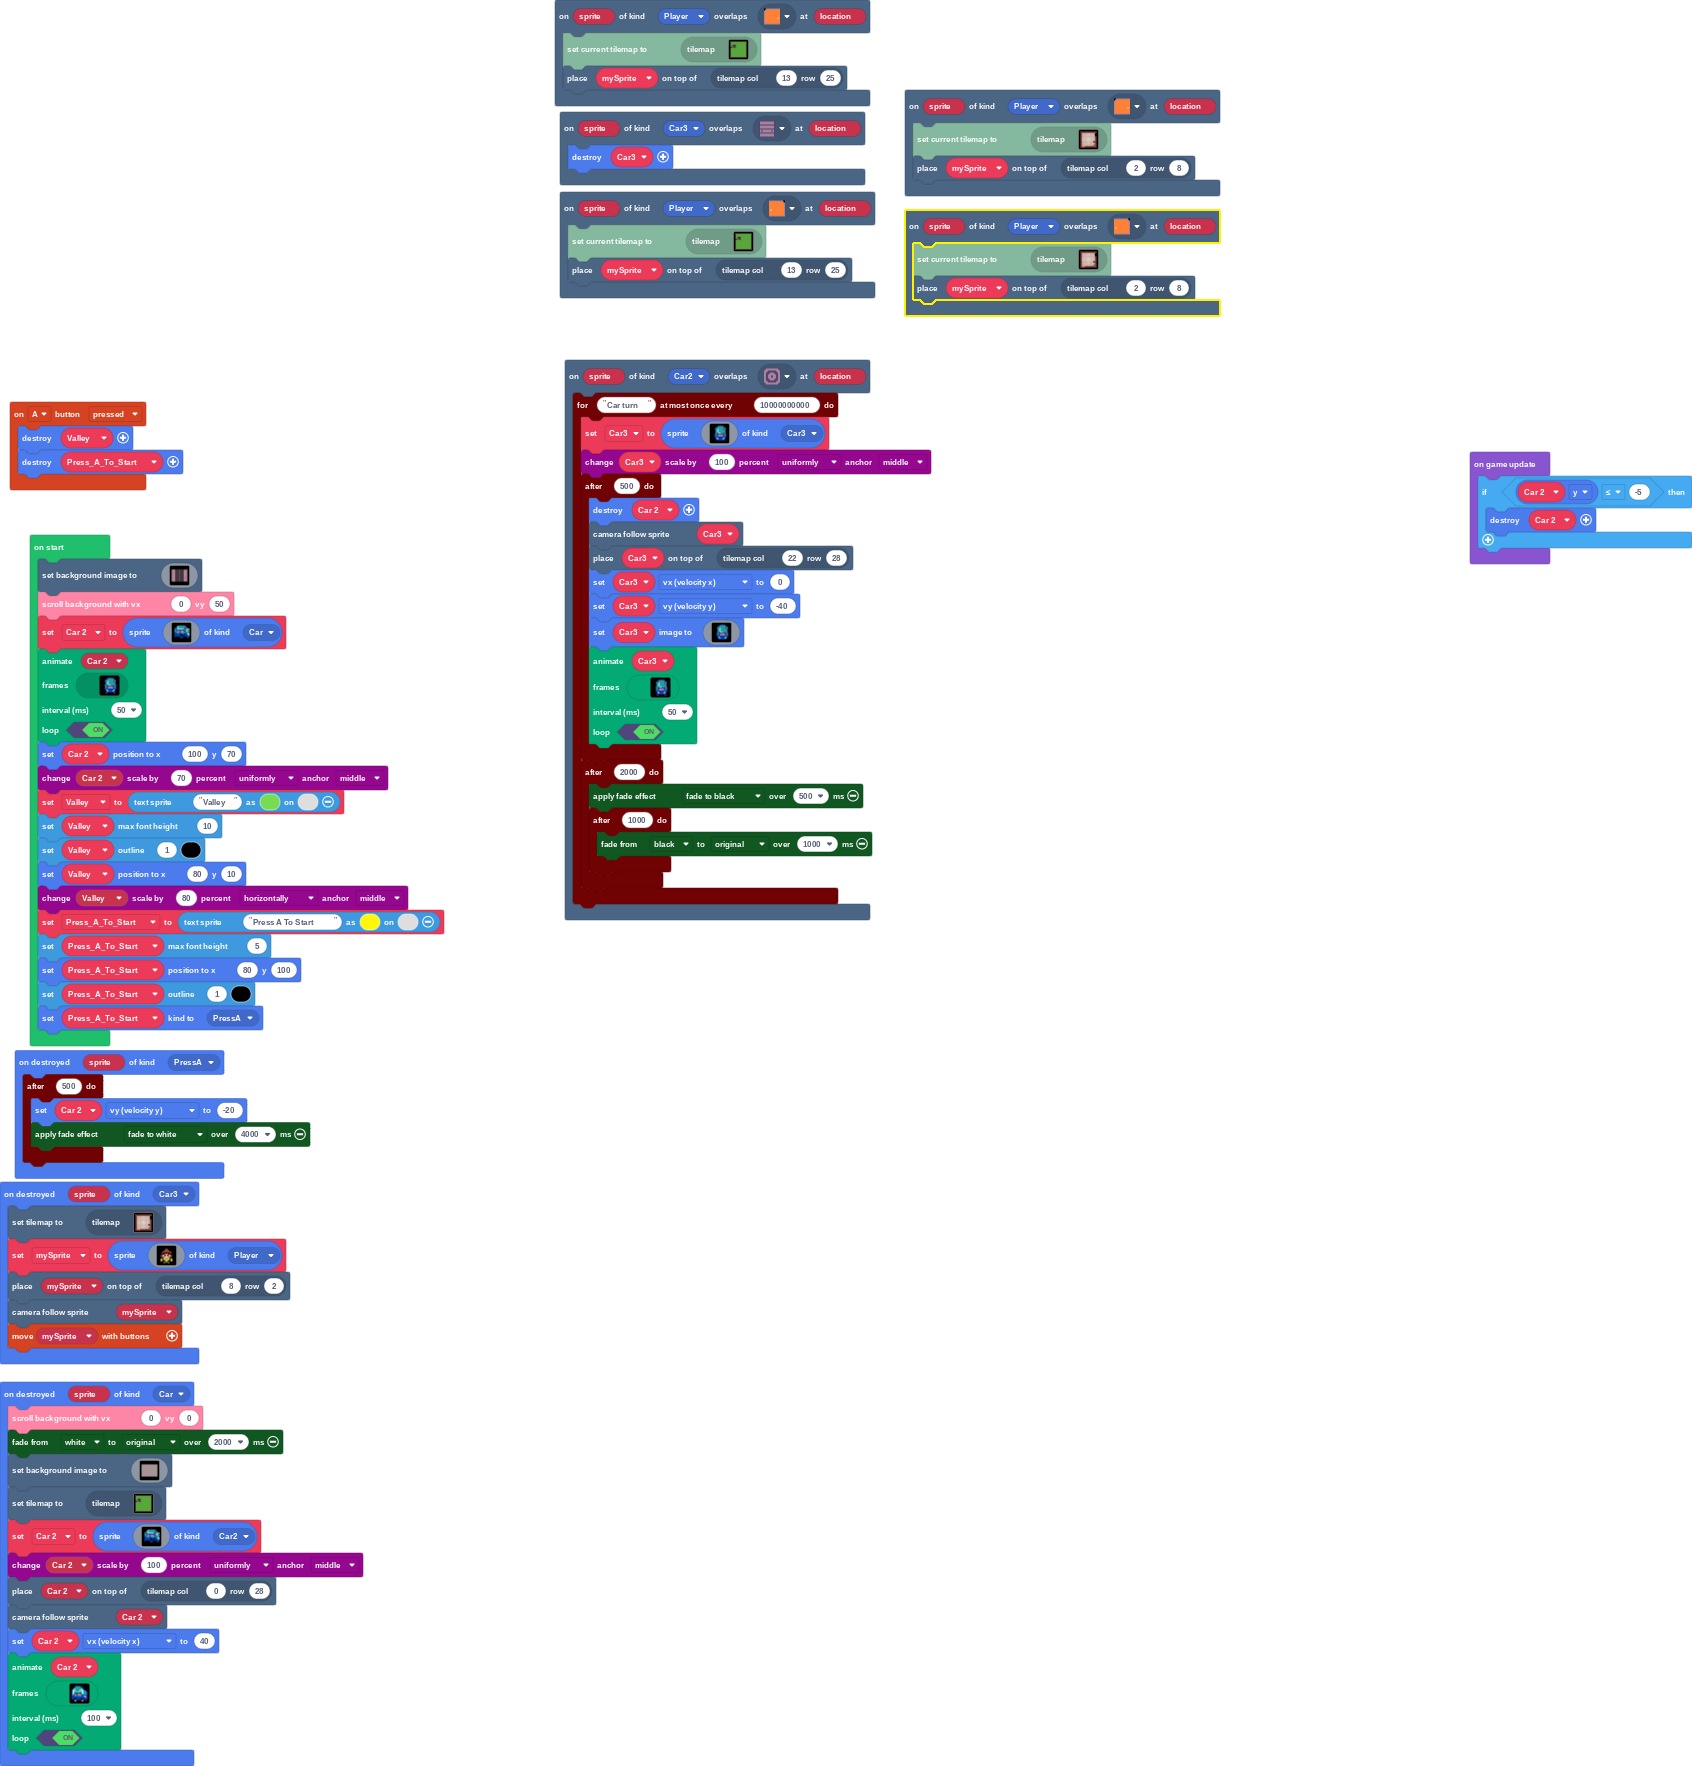
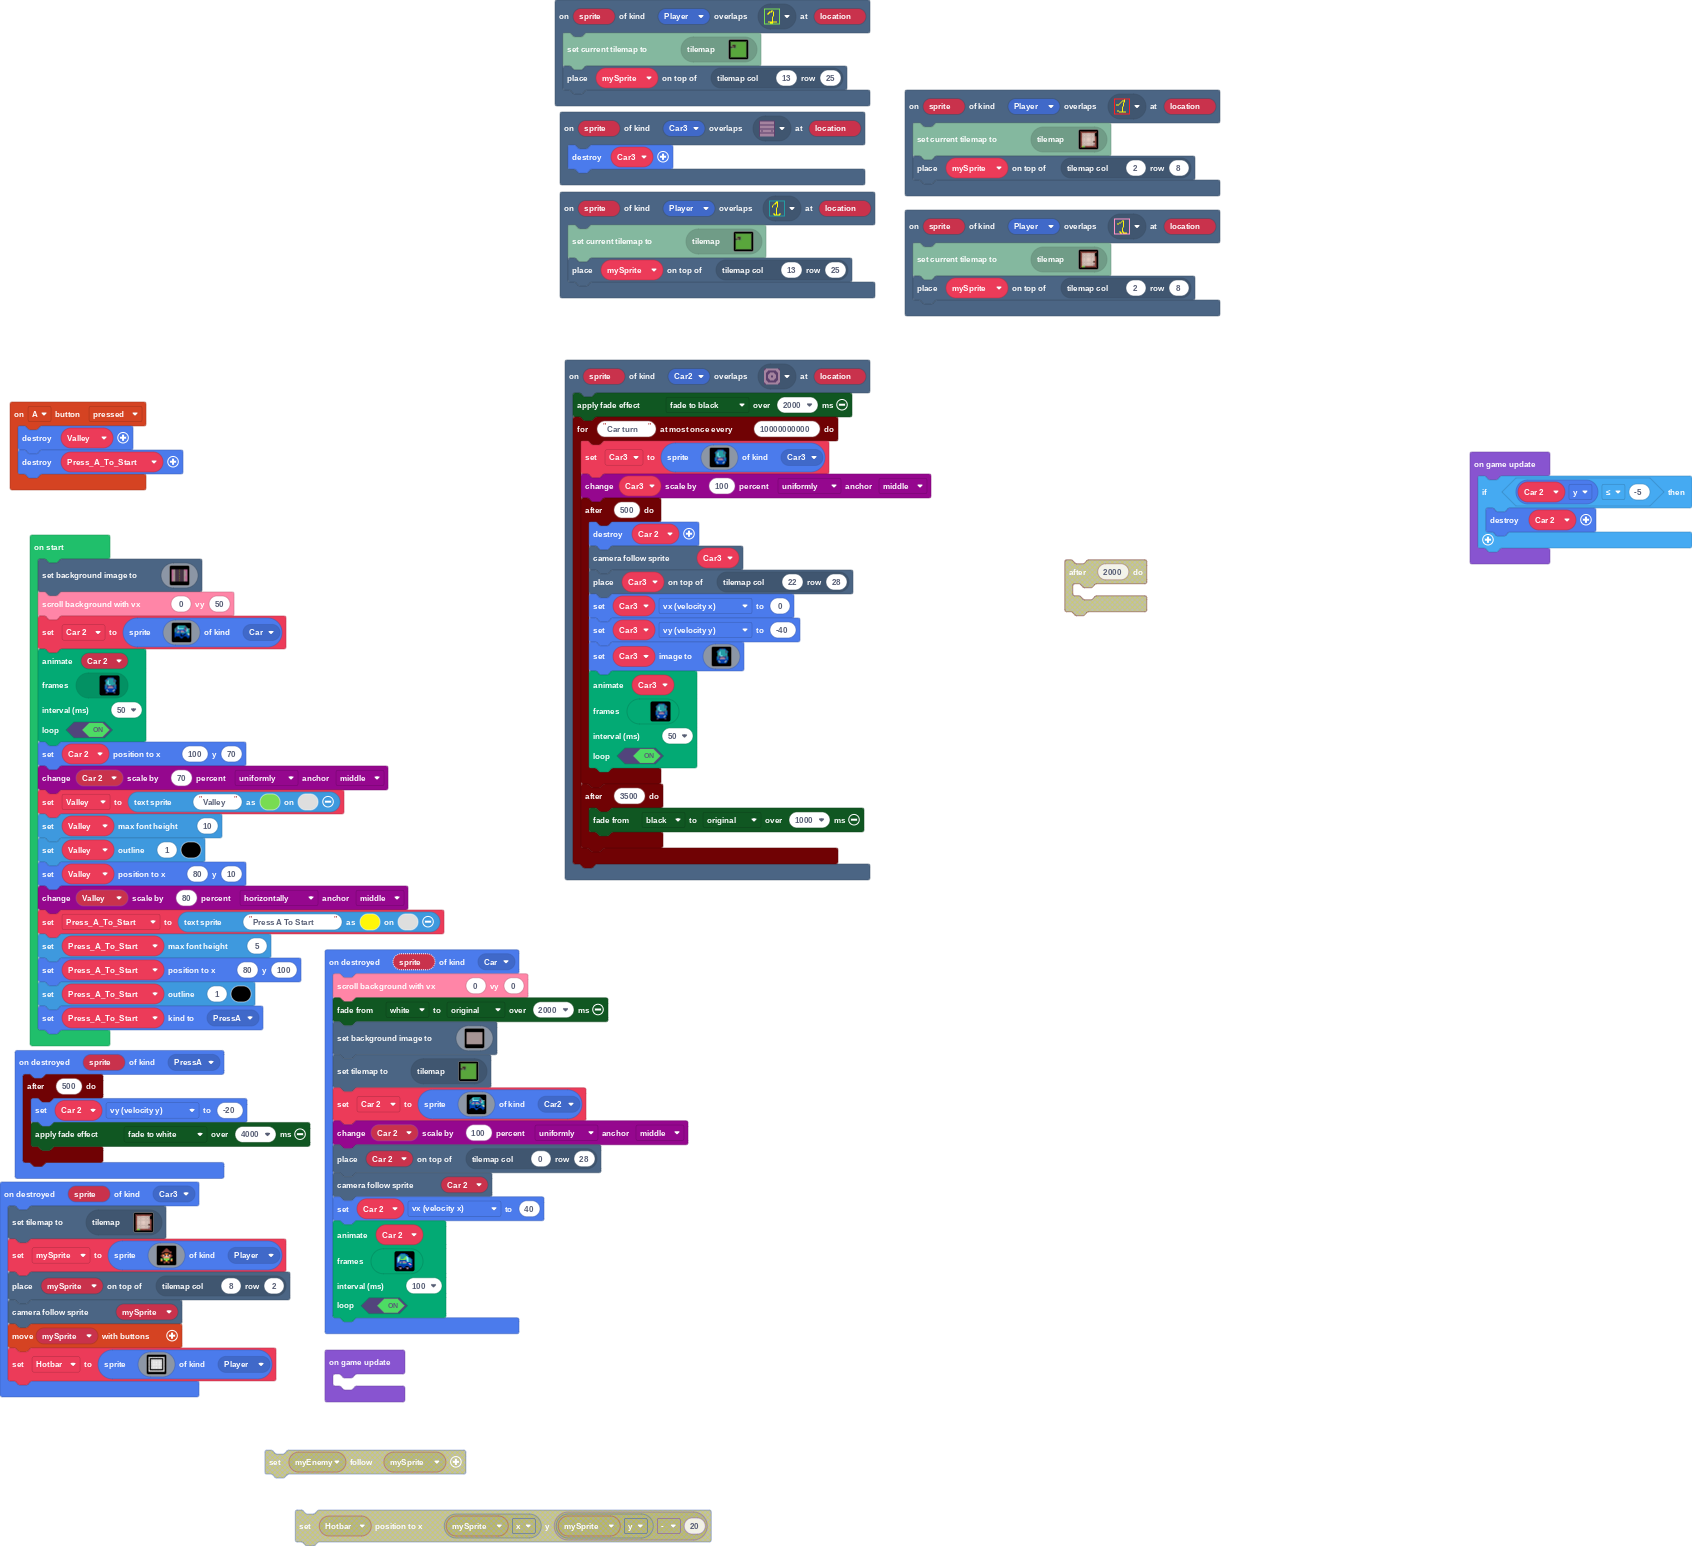
Update main.blocks, main.ts, tilemap.g.jres, tilemap.g.ts

diff --git a/tilemap.g.ts b/tilemap.g.ts
@@ -37,14 +37,6 @@ namespace myTiles {
     //% fixedInstance jres blockIdentity=images._tile
     export const tile21 = image.ofBuffer(hex``);
     //% fixedInstance jres blockIdentity=images._tile
-    export const tile8 = image.ofBuffer(hex``);
-    //% fixedInstance jres blockIdentity=images._tile
-    export const tile13 = image.ofBuffer(hex``);
-    //% fixedInstance jres blockIdentity=images._tile
-    export const tile22 = image.ofBuffer(hex``);
-    //% fixedInstance jres blockIdentity=images._tile
-    export const tile23 = image.ofBuffer(hex``);
-    //% fixedInstance jres blockIdentity=images._tile
     export const tile24 = image.ofBuffer(hex``);
     //% fixedInstance jres blockIdentity=images._tile
     export const tile25 = image.ofBuffer(hex``);
@@ -56,6 +48,14 @@ namespace myTiles {
     export const tile14 = image.ofBuffer(hex``);
     //% fixedInstance jres blockIdentity=images._tile
     export const tile27 = image.ofBuffer(hex``);
+    //% fixedInstance jres blockIdentity=images._tile
+    export const tile8 = image.ofBuffer(hex``);
+    //% fixedInstance jres blockIdentity=images._tile
+    export const tile13 = image.ofBuffer(hex``);
+    //% fixedInstance jres blockIdentity=images._tile
+    export const tile22 = image.ofBuffer(hex``);
+    //% fixedInstance jres blockIdentity=images._tile
+    export const tile23 = image.ofBuffer(hex``);
 
     helpers._registerFactory("tilemap", function(name: string) {
         switch(helpers.stringTrim(name)) {
@@ -287,7 +287,7 @@ namespace myTiles {
 2..............................................................................2
 2..............................................................................2
 22222222222222222222222222222222222222222222222222222222222222222222222222222222
-`, [myTiles.transparency16,myTiles.tile1,myTiles.tile3,myTiles.tile4,myTiles.tile5,sprites.castle.tileGrass2,sprites.castle.tilePath3,sprites.castle.tilePath8,sprites.castle.tilePath7,sprites.castle.tilePath9,sprites.castle.tilePath5,sprites.castle.tileGrass1,myTiles.tile14,sprites.castle.tilePath4,sprites.castle.tilePath6,myTiles.tile9,sprites.castle.tilePath2,sprites.castle.tilePath1,sprites.castle.tileGrass3,sprites.skillmap.islandTile0,myTiles.tile17,myTiles.tile18,myTiles.tile19,myTiles.tile20,myTiles.tile21,myTiles.tile22,myTiles.tile24,myTiles.tile27,myTiles.tile8], TileScale.Sixteen);
+`, [myTiles.transparency16,myTiles.tile1,myTiles.tile3,myTiles.tile4,myTiles.tile5,sprites.castle.tileGrass2,sprites.castle.tilePath3,sprites.castle.tilePath8,sprites.castle.tilePath7,sprites.castle.tilePath9,sprites.castle.tilePath5,sprites.castle.tileGrass1,myTiles.tile14,sprites.castle.tilePath4,sprites.castle.tilePath6,myTiles.tile9,sprites.castle.tilePath2,sprites.castle.tilePath1,sprites.castle.tileGrass3,sprites.skillmap.islandTile0,myTiles.tile17,myTiles.tile18,myTiles.tile19,myTiles.tile20,myTiles.tile21,myTiles.tile22,myTiles.tile24,myTiles.tile27,myTiles.tile8,myTiles.tile13,myTiles.tile23], TileScale.Sixteen);
         }
         return null;
     })
@@ -329,14 +329,6 @@ namespace myTiles {
             case "tile20":return tile20;
             case "myTile19":
             case "tile21":return tile21;
-            case "Indoor Left":
-            case "tile8":return tile8;
-            case "Outdoor Left":
-            case "tile13":return tile13;
-            case "Indoor Right":
-            case "tile22":return tile22;
-            case "Outdoor Right":
-            case "tile23":return tile23;
             case "myTile6":
             case "tile24":return tile24;
             case "myTile11":
@@ -349,6 +341,14 @@ namespace myTiles {
             case "tile14":return tile14;
             case "myTile12":
             case "tile27":return tile27;
+            case "Indoor Left":
+            case "tile8":return tile8;
+            case "Outdoor Left":
+            case "tile13":return tile13;
+            case "Indoor Right":
+            case "tile22":return tile22;
+            case "Outdoor Right":
+            case "tile23":return tile23;
         }
         return null;
     })

diff --git a/main.ts b/main.ts
@@ -52,6 +52,20 @@ sprites.onDestroyed(SpriteKind.Car3, function (sprite) {
     tiles.placeOnTile(mySprite, tiles.getTileLocation(8, 2))
     scene.cameraFollowSprite(mySprite)
     controller.moveSprite(mySprite)
+    Hotbar = sprites.create(img`
+        1 1 1 1 1 1 1 1 1 1 1 1 1 
+        1 f f f f f f f f f f f 1 
+        1 f 1 1 1 1 1 1 1 1 1 f 1 
+        1 f 1 1 1 1 1 1 1 1 1 f 1 
+        1 f 1 1 1 1 1 1 1 1 1 f 1 
+        1 f 1 1 1 1 1 1 1 1 1 f 1 
+        1 f 1 1 1 1 1 1 1 1 1 f 1 
+        1 f 1 1 1 1 1 1 1 1 1 f 1 
+        1 f 1 1 1 1 1 1 1 1 1 f 1 
+        1 f 1 1 1 1 1 1 1 1 1 f 1 
+        1 f f f f f f f f f f f 1 
+        1 1 1 1 1 1 1 1 1 1 1 1 1 
+        `, SpriteKind.Player)
 })
 scene.onOverlapTile(SpriteKind.Player, assets.tile`Outdoor Left`, function (sprite, location) {
     tiles.loadMap(tiles.createMap(tilemap`level1`))
@@ -196,6 +210,7 @@ sprites.onDestroyed(SpriteKind.Car, function (sprite) {
     )
 })
 scene.onOverlapTile(SpriteKind.Car2, assets.tile`Rotater`, function (sprite, location) {
+    color.FadeToBlack.startScreenEffect(2000)
     timer.throttle("Car turn", 10000000000, function () {
         Car3 = sprites.create(img`
             . . . . . . 8 8 c c 8 8 . . . . 
@@ -349,14 +364,12 @@ scene.onOverlapTile(SpriteKind.Car2, assets.tile`Rotater`, function (sprite, loc
             true
             )
         })
-        timer.after(2000, function () {
-            color.FadeToBlack.startScreenEffect(500)
-            timer.after(1000, function () {
-                color.startFade(color.Black, color.originalPalette, 1000)
-            })
+        timer.after(3500, function () {
+            color.startFade(color.Black, color.originalPalette, 1000)
         })
     })
 })
+let Hotbar: Sprite = null
 let Car3: Sprite = null
 let mySprite: Sprite = null
 let Press_A_To_Start: TextSprite = null
@@ -610,4 +623,7 @@ game.onUpdate(function () {
     if (Car_2.y <= -5) {
         Car_2.destroy()
     }
+})
+game.onUpdate(function () {
+	
 })
